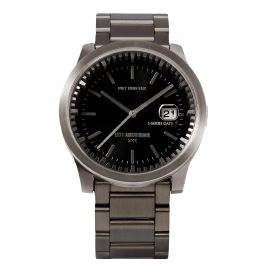
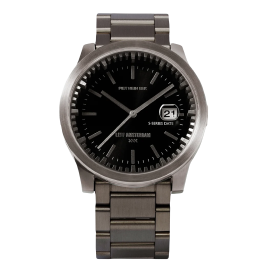
modal

diff --git a/src/partials/modal.html b/src/partials/modal.html
@@ -10,7 +10,7 @@
       <div class="modal-catalog-wrap">
         <img
           class="modal-catalog-img"
-          src="./.jpg"
+          src="./img/catalog-pic-1.png"
           srcset="./.jpg 1x, ./-2x.jpg 2x"
           alt="image"
           width="276"
